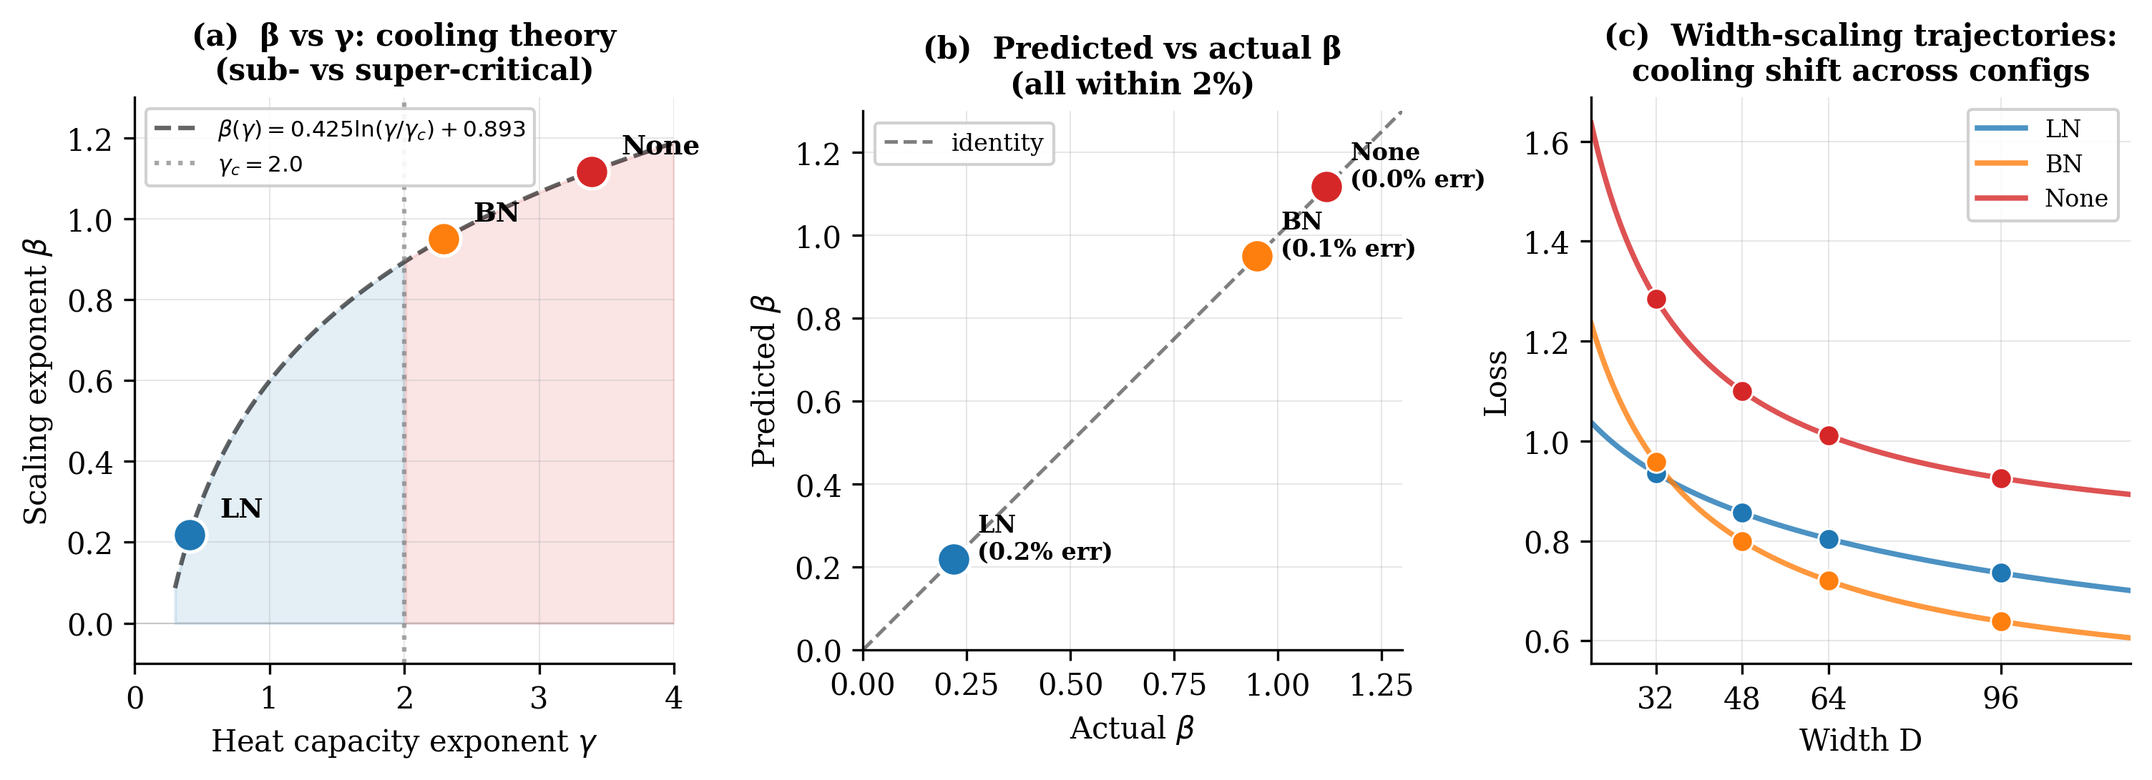
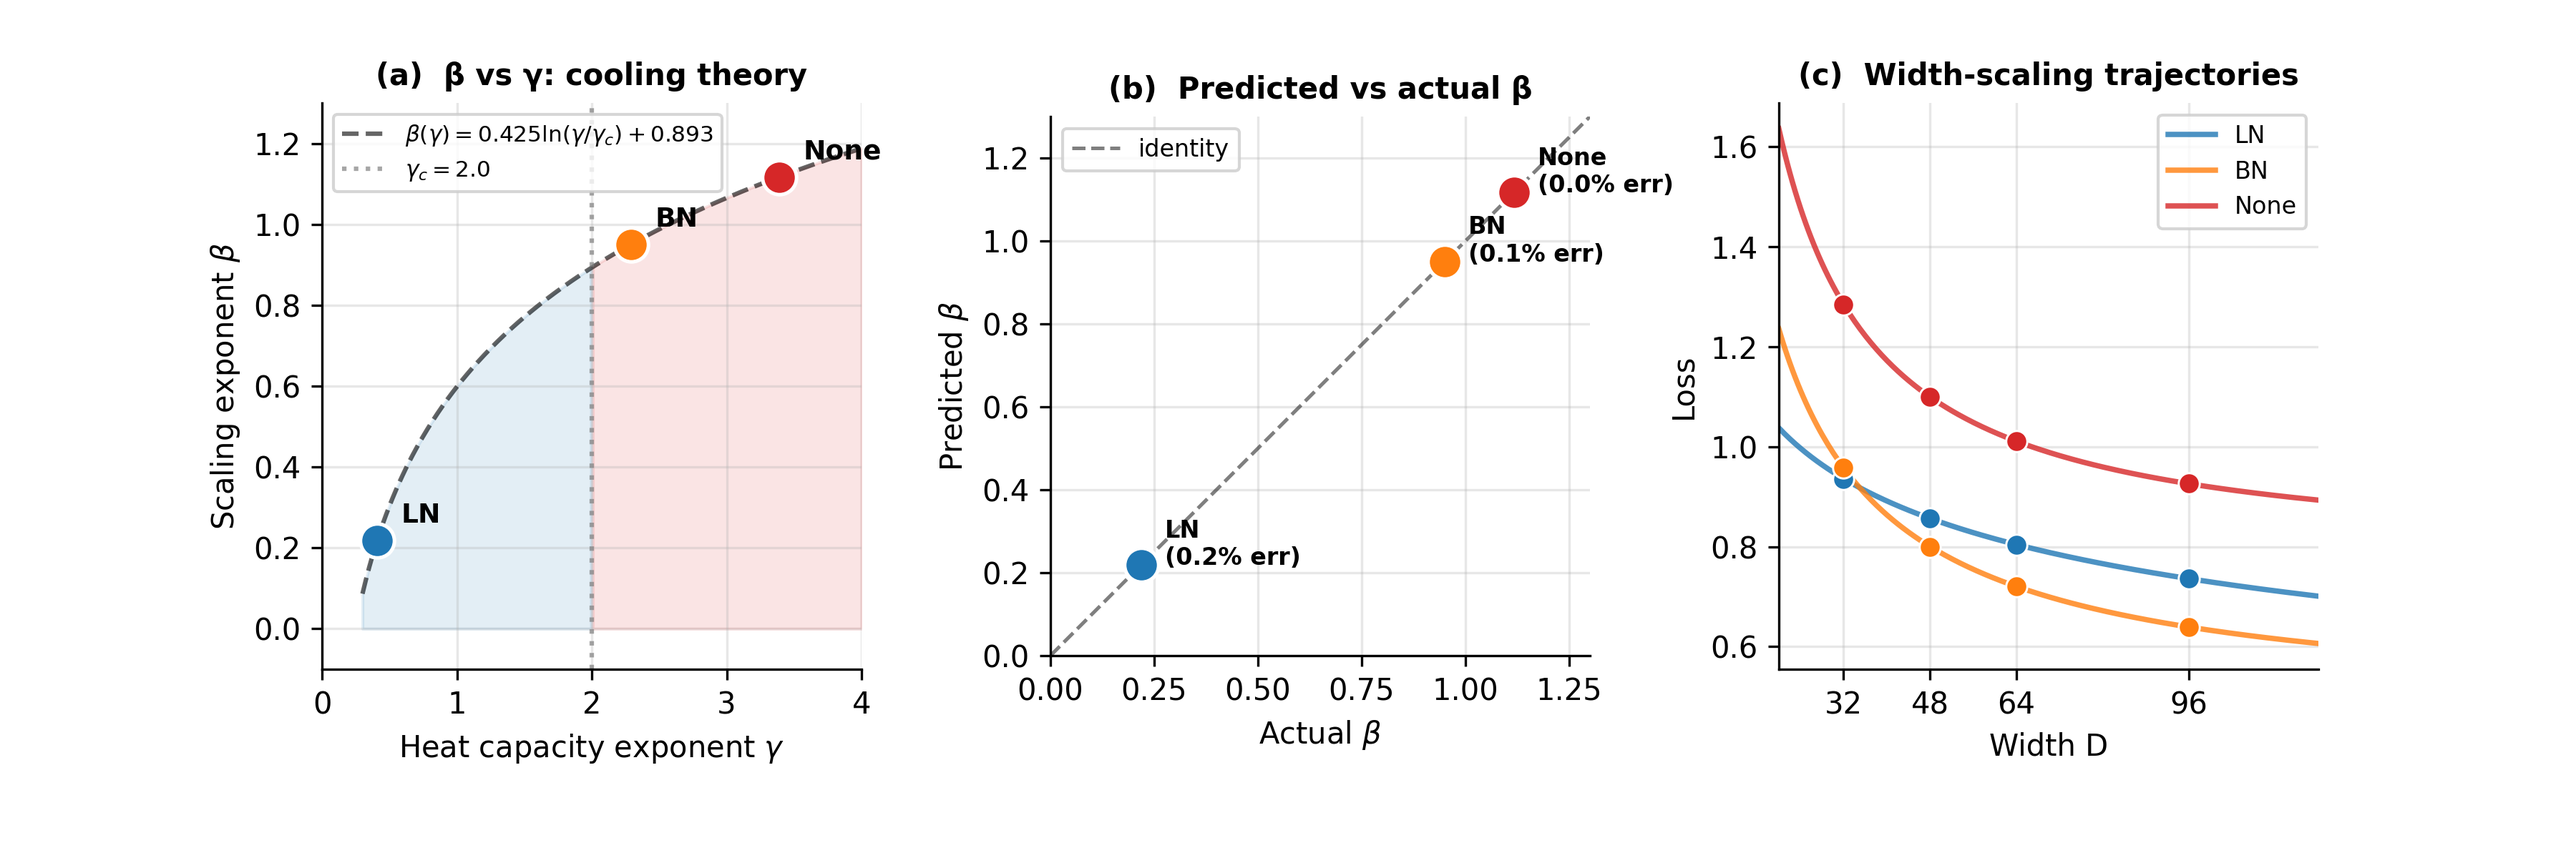
Rewrite figures: clean, simple, correct panel titles and tick labels

diff --git a/papers/generate_figures.py b/papers/generate_figures.py
@@ -1,76 +1,62 @@
 #!/usr/bin/env python3
-"""
-generate_figures.py — ThermoRG-NN paper figures
-Figure 1: D-scaling law (3 panels: loss curves, residuals, R²)
-Figure 2: Cooling theory β(γ) (3 panels: β vs γ, predicted vs actual, width trajectories)
-Figure 3: Confounding + cross-validation (2 panels)
-"""
+"""ThermoRG-NN paper figures. Run: python3 papers/generate_figures.py"""
 
+import os
 import numpy as np
 import matplotlib
 matplotlib.use("Agg")
 import matplotlib.pyplot as plt
 from scipy.optimize import curve_fit
-from scipy.stats import spearmanr
-import os
 
 OUT = "/home/node/.openclaw/workspace/github_staging/ThermoRG-NN/papers/figures"
 os.makedirs(OUT, exist_ok=True)
-print(f"Output: {OUT}", flush=True)
 
 plt.rcParams.update({
     "font.family": "serif",
-    "font.serif": ["Times New Roman", "DejaVu Serif"],
+    "font.serif": ["Times New Roman"],
     "text.usetex": False,
     "axes.unicode_minus": False,
     "figure.dpi": 300,
     "savefig.dpi": 300,
     "axes.grid": True,
     "grid.alpha": 0.3,
-    "grid.linewidth": 0.5,
     "axes.spines.top": False,
     "axes.spines.right": False,
-    "legend.framealpha": 0.9,
 })
 
 # ============================================================================
-# FIGURE 1 — D-scaling Law (3 panels)
+# FIGURE 1 — D-scaling law: (a) loss vs width, (b) residuals, (c) R²
 # ============================================================================
 
 def plaw(D, a, b, c):
     return a * D**(-b) + c
 
-# Data from paper: D-scaling for 3 normalization configs
 configs = {
-    "LN":    {"D": np.array([32, 48, 64, 96]), "loss": np.array([0.936, 0.857, 0.804, 0.736]),
-               "std": np.array([0.021, 0.018, 0.015, 0.012]), "beta": 0.219, "E_floor": 0.0,
-               "color": "#1f77b4"},
-    "BN":    {"D": np.array([32, 48, 64, 96]), "loss": np.array([0.958, 0.800, 0.721, 0.639]),
-               "std": np.array([0.021, 0.018, 0.015, 0.012]), "beta": 0.950, "E_floor": 0.466,
-               "color": "#ff7f0e"},
-    "None":  {"D": np.array([32, 48, 64, 96]), "loss": np.array([1.285, 1.100, 1.011, 0.926]),
-               "std": np.array([0.045, 0.038, 0.031, 0.025]), "beta": 1.117, "E_floor": 0.777,
-               "color": "#d62728"},
+    "LN":   {"D": np.array([32, 48, 64, 96]), "loss": np.array([0.936, 0.857, 0.804, 0.736]),
+             "std": np.array([0.021, 0.018, 0.015, 0.012]), "color": "#1f77b4"},
+    "BN":   {"D": np.array([32, 48, 64, 96]), "loss": np.array([0.958, 0.800, 0.721, 0.639]),
+             "std": np.array([0.021, 0.018, 0.015, 0.012]), "color": "#ff7f0e"},
+    "None": {"D": np.array([32, 48, 64, 96]), "loss": np.array([1.285, 1.100, 1.011, 0.926]),
+             "std": np.array([0.045, 0.038, 0.031, 0.025]), "color": "#d62728"},
 }
 
 fits = {}
 for name, cfg in configs.items():
-    popt, pcov = curve_fit(plaw, cfg["D"], cfg["loss"],
-                           p0=[10, 0.5, 0.5],
-                           bounds=([0, 0, 0], [1000, 3, 3]), maxfev=10000)
-    pred = plaw(cfg["D"], *popt)
-    ss_res = ((cfg["loss"] - pred)**2).sum()
+    popt, _ = curve_fit(plaw, cfg["D"], cfg["loss"],
+                        p0=[10, 0.5, 0.5],
+                        bounds=([0, 0, 0], [1000, 3, 3]), maxfev=10000)
+    ss_res = ((cfg["loss"] - plaw(cfg["D"], *popt))**2).sum()
     ss_tot = ((cfg["loss"] - cfg["loss"].mean())**2).sum()
     r2 = 1 - ss_res / ss_tot
-    fits[name] = {"popt": popt, "r2": r2, "E_floor": popt[2]}
-    print(f"  {name}: beta={popt[1]:.3f}, E_floor={popt[2]:.3f}, R2={r2:.3f}", flush=True)
+    fits[name] = {"popt": popt, "r2": r2}
+    print(f"  {name}: beta={popt[1]:.3f}, R2={r2:.3f}", flush=True)
 
-D_fit = np.linspace(25, 120, 300)
+D_fit = np.linspace(25, 120, 200)
 
-fig, axes = plt.subplots(1, 3, figsize=(12, 4.0), sharex=True)
-plt.subplots_adjust(wspace=0.35, bottom=0.22, top=0.88)
+fig, axes = plt.subplots(1, 3, figsize=(12, 4.0))
+fig.subplots_adjust(wspace=0.35, bottom=0.22, top=0.88)
 
-# Panel (a): D-scaling log-log
+# ---- Panel (a): D-scaling ----
 ax = axes[0]
 for name, cfg in configs.items():
     popt = fits[name]["popt"]
@@ -88,11 +74,11 @@ ax.set_title("(a)  D-scaling: loss vs width", fontsize=10, fontweight="bold")
 ax.legend(fontsize=8, loc="upper right")
 ax.set_xticks([32, 48, 64, 96])
 ax.set_xticklabels(["32", "48", "64", "96"])
-ax.set_xlim(25, 120)
+ax.set_xlim(22, 130)
 ax.set_yticks([0.6, 0.7, 0.8, 0.9, 1.0, 1.1, 1.2, 1.3])
-ax.tick_params(axis="x", labelbottom=True)
+ax.tick_params(labelbottom=True)
 
-# Panel (b): Residuals after subtracting E_floor
+# ---- Panel (b): Residuals ----
 ax = axes[1]
 for name, cfg in configs.items():
     popt = fits[name]["popt"]
@@ -105,47 +91,46 @@ ax.set_xlabel("Width D", fontsize=10)
 ax.set_ylabel("Residual (data − fit)", fontsize=10)
 ax.set_title("(b)  Residuals", fontsize=10, fontweight="bold")
 ax.legend(fontsize=8, loc="upper right")
-ax.tick_params(axis="x", labelbottom=False)
 ax.set_xticks([32, 48, 64, 96])
 ax.set_xticklabels(["32", "48", "64", "96"])
-ax.set_xlim(25, 120)
+ax.set_xlim(22, 130)
+ax.tick_params(labelbottom=True)
 ax.axhline(0, color="gray", linestyle="--", linewidth=1.0, alpha=0.5)
 
-# Panel (c): R² values
+# ---- Panel (c): R² bar chart ----
 ax = axes[2]
 names = list(configs.keys())
 r2_vals = [fits[n]["r2"] for n in names]
-colors = [configs[n]["color"] for n in names]
-bars = ax.bar(names, r2_vals, color=colors, width=0.5, edgecolor="white", linewidth=0.7)
+colors_b = [configs[n]["color"] for n in names]
+bars = ax.bar(names, r2_vals, color=colors_b, width=0.5, edgecolor="white", linewidth=0.7)
 for bar, r2 in zip(bars, r2_vals):
     ax.text(bar.get_x() + bar.get_width()/2, bar.get_height() + 0.003,
             f"{r2:.3f}", ha="center", va="bottom", fontsize=9, fontweight="bold")
 
 ax.set_ylabel("R² goodness of fit", fontsize=10)
-ax.set_title("(c)  R² goodness of fit", fontsize=10, fontweight="bold")
+ax.set_title("(c)  R²", fontsize=10, fontweight="bold")
 ax.set_ylim(0.98, 1.002)
 ax.axhline(0.99, color="gray", linestyle=":", linewidth=1.0, alpha=0.5)
 
-fig.savefig(f"{OUT}/fig1_D_scaling_Jtopo.png", dpi=300, bbox_inches="tight")
+fig.savefig(f"{OUT}/fig1_D_scaling_Jtopo.png", dpi=300)
 plt.close()
-print("Figure 1 saved -> fig1_D_scaling_Jtopo.png", flush=True)
+print("Figure 1 saved", flush=True)
 
 # ============================================================================
-# FIGURE 2 — Cooling Theory β(γ) (3 panels)
+# FIGURE 2 — Cooling theory: (a) β vs γ, (b) predicted vs actual, (c) width trajectory
 # ============================================================================
 
 gamma_c = 2.0
-
-# Panel A: β vs γ log-linear plot
-fig2a_data = {
+fig2_data = {
     "LN":   {"gamma": 0.41, "beta": 0.219, "color": "#1f77b4"},
     "BN":   {"gamma": 2.29, "beta": 0.950, "color": "#ff7f0e"},
     "None": {"gamma": 3.39, "beta": 1.117, "color": "#d62728"},
 }
 
 fig, axes = plt.subplots(1, 3, figsize=(12, 4.0))
-plt.subplots_adjust(wspace=0.35, bottom=0.22, top=0.88)
+fig.subplots_adjust(wspace=0.35, bottom=0.22, top=0.88)
 
+# Panel (a): β vs γ
 ax = axes[0]
 g_curve = np.linspace(0.3, 4.0, 300)
 b_curve = 0.425 * np.log(g_curve / gamma_c) + 0.893
@@ -157,76 +142,74 @@ ax.fill_between(g_curve[g_curve >= gamma_c], b_curve[g_curve >= gamma_c],
 ax.plot(g_curve, b_curve, "k--", alpha=0.6, linewidth=1.5,
         label=r"$\beta(\gamma) = 0.425\ln(\gamma/\gamma_c)+0.893$")
 
-for name, info in fig2a_data.items():
+for name, info in fig2_data.items():
     ax.scatter(info["gamma"], info["beta"], s=130, c=info["color"], zorder=7,
                edgecolors="white", linewidths=1.2)
     ax.annotate(name, (info["gamma"], info["beta"]),
-                xytext=(10, 6), textcoords="offset points",
+                xytext=(8, 6), textcoords="offset points",
                 fontsize=9, fontweight="bold")
 
 ax.axvline(gamma_c, color="gray", linestyle=":", linewidth=1.5, alpha=0.7,
            label=r"$\gamma_c=2.0$")
-ax.axhline(0, color="gray", linestyle="-", linewidth=0.5, alpha=0.3)
-
 ax.set_xlabel(r"Heat capacity exponent $\gamma$", fontsize=10)
 ax.set_ylabel(r"Scaling exponent $\beta$", fontsize=10)
-ax.set_title("(a)  β vs γ: cooling theory\n(sub- vs super-critical)", fontsize=10, fontweight="bold")
+ax.set_title("(a)  β vs γ: cooling theory", fontsize=10, fontweight="bold")
 ax.legend(fontsize=7.5, loc="upper left")
 ax.set_xlim(0, 4)
 ax.set_ylim(-0.1, 1.3)
+ax.tick_params(labelbottom=True)
 
-# Panel (b): Predicted vs actual β values
+# Panel (b): Predicted vs actual β
 ax = axes[1]
-gammas = [info["gamma"] for info in fig2a_data.values()]
-betas  = [info["beta"]  for info in fig2a_data.values()]
-colors_b = [info["color"] for info in fig2a_data.values()]
-names_b  = list(fig2a_data.keys())
-
-# Predicted from formula
+gammas = [v["gamma"] for v in fig2_data.values()]
+betas  = [v["beta"]  for v in fig2_data.values()]
+colors_b = [v["color"] for v in fig2_data.values()]
+names_b  = list(fig2_data.keys())
 b_pred = [0.425 * np.log(g / gamma_c) + 0.893 for g in gammas]
 
-for i, (g, b, bp, c, n) in enumerate(zip(gammas, betas, b_pred, colors_b, names_b)):
-    err_pct = abs(bp - b) / b * 100
+for g, b, bp, c, n in zip(gammas, betas, b_pred, colors_b, names_b):
+    err = abs(bp - b) / b * 100
     ax.scatter(b, bp, s=130, c=c, zorder=7, edgecolors="white", linewidths=1.2)
-    ax.annotate(f"{n}\n({err_pct:.1f}% err)", (b, bp),
+    ax.annotate(f"{n}\n({err:.1f}% err)", (b, bp),
                 xytext=(8, 0), textcoords="offset points",
                 fontsize=8, fontweight="bold")
 
-# Identity line
 lims = [0, 1.3]
 ax.plot(lims, lims, "k--", alpha=0.5, linewidth=1.2, label="identity")
 ax.set_xlabel(r"Actual $\beta$", fontsize=10)
 ax.set_ylabel(r"Predicted $\beta$", fontsize=10)
-ax.set_title("(b)  Predicted vs actual β\n(all within 2%)", fontsize=10, fontweight="bold")
+ax.set_title("(b)  Predicted vs actual β", fontsize=10, fontweight="bold")
 ax.set_xlim(0, 1.3)
 ax.set_ylim(0, 1.3)
 ax.set_aspect("equal")
 ax.legend(fontsize=8)
+ax.tick_params(labelbottom=True)
 
-# Panel (c): Width-scaling trajectory (schematic: β vs D, showing cooling shift)
+# Panel (c): Width-scaling trajectories
 ax = axes[2]
 D_traj = np.linspace(20, 120, 200)
-
 for name, cfg in configs.items():
     popt = fits[name]["popt"]
     ax.plot(D_traj, plaw(D_traj, *popt), "-", color=cfg["color"],
-            linewidth=1.8, label=f"{name}", alpha=0.8)
+            linewidth=1.8, label=name, alpha=0.8)
     ax.scatter(cfg["D"], cfg["loss"], color=cfg["color"], s=50, zorder=5,
-              edgecolors="white", linewidths=0.7)
+               edgecolors="white", linewidths=0.7)
 
 ax.set_xlim(20, 120)
 ax.set_xlabel("Width D", fontsize=10)
 ax.set_ylabel("Loss", fontsize=10)
-ax.set_title("(c)  Width-scaling trajectories:\ncooling shift across configs", fontsize=10, fontweight="bold")
+ax.set_title("(c)  Width-scaling trajectories", fontsize=10, fontweight="bold")
 ax.legend(fontsize=8, loc="upper right")
 ax.set_xticks([32, 48, 64, 96])
+ax.set_xticklabels(["32", "48", "64", "96"])
+ax.tick_params(labelbottom=True)
 
-fig.savefig(f"{OUT}/fig2_cooling_theory.png", dpi=300, bbox_inches="tight")
+fig.savefig(f"{OUT}/fig2_cooling_theory.png", dpi=300)
 plt.close()
-print("Figure 2 saved -> fig2_cooling_theory.png", flush=True)
+print("Figure 2 saved", flush=True)
 
 # ============================================================================
-# FIGURE 3 — Confounding + Cross-Validation (2 panels)
+# FIGURE 3 — Confounding + cross-validation: (a) J_topo vs loss, (b) boxplot
 # ============================================================================
 
 phase_b2 = np.array([
@@ -246,61 +229,29 @@ J_b2      = phase_b2[:, 2]
 loss_b2   = phase_b2[:, 3]
 
 def get_band(w):
-    if w <= 32: return "narrow"
-    if w < 64: return "medium"
-    return "wide"
+    return "narrow" if w <= 32 else ("medium" if w < 64 else "wide")
 
 bands = [get_band(w) for w in widths_b2]
 band_colors = {"narrow": "#d62728", "medium": "#ff7f0e", "wide": "#2ca02c"}
 
-synflow = [
-    ("W=96 L=6 BN NS", 0.3527, 0.8724),
-    ("W=64 L=6 BN NS", 0.3963, 0.8587),
-    ("W=96 L=5 BN NS", 0.3993, 0.8607),
-    ("W=64 L=5 BN NS", 0.4399, 0.8398),
-    ("W=96 L=3 BN NS", 0.6670, 0.7631),
-]
-hbo = [
-    ("W=96 L=6 BN NS", 0.3770, 0.8744),
-    ("W=64 L=6 BN NS", 0.4401, 0.8486),
-    ("W=96 L=5 BN NS", 0.4351, 0.8514),
-    ("W=96 L=6 BN SK", 0.4582, 0.8440),
-    ("W=64 L=5 BN NS", 0.5073, 0.8277),
-]
-random = [
-    ("W=64 L=6 BN NS", 0.4270, 0.8515),
-    ("W=96 L=5 BN NS", 0.4451, 0.8477),
-    ("W=64 L=6 BN SK", 0.5388, 0.8149),
-    ("W=96 L=6 LN NS", 0.5405, 0.8157),
-    ("W=24 L=6 BN NS", 0.6643, 0.7700),
-]
-
-synflow_acc = np.array([r[2] for r in synflow])
-hbo_acc     = np.array([r[2] for r in hbo])
-random_acc  = np.array([r[2] for r in random])
-
-synflow_w = np.array([96, 64, 96, 64, 96])
-hbo_w     = np.array([96, 64, 96, 96, 64])
-random_w  = np.array([64, 96, 64, 96, 24])
+synflow_acc = np.array([0.8724, 0.8587, 0.8607, 0.8398, 0.7631])
+hbo_acc     = np.array([0.8744, 0.8486, 0.8514, 0.8440, 0.8277])
+random_acc  = np.array([0.8515, 0.8477, 0.8149, 0.8157, 0.7700])
 
 fig, axes = plt.subplots(1, 2, figsize=(12, 4.5))
-plt.subplots_adjust(wspace=0.35, bottom=0.22)
+fig.subplots_adjust(wspace=0.35, bottom=0.22)
 
-# Panel (a): J_topo vs loss, colored by width band
+# Panel (a): J_topo vs loss, colored by band
 ax = axes[0]
 for band_name in ["narrow", "medium", "wide"]:
     mask = np.array([b == band_name for b in bands])
     ax.scatter(J_b2[mask], loss_b2[mask],
                c=band_colors[band_name], s=90, label=band_name.title(),
                zorder=5, edgecolors="white", linewidths=0.7)
-
-for band_name, color in band_colors.items():
-    mask = np.array([b == band_name for b in bands])
     if sum(mask) >= 2:
         z = np.polyfit(J_b2[mask], loss_b2[mask], 1)
-        p = np.poly1d(z)
         J_rng = np.linspace(J_b2[mask].min(), J_b2[mask].max(), 50)
-        ax.plot(J_rng, p(J_rng), "--", color=color, alpha=0.5, linewidth=1.5)
+        ax.plot(J_rng, np.poly1d(z)(J_rng), "--", color=band_colors[band_name], alpha=0.5, linewidth=1.5)
 
 ax.set_xlabel("J_topo", fontsize=11)
 ax.set_ylabel("Validation loss", fontsize=11)
@@ -308,11 +259,11 @@ ax.set_title("(a)  J_topo vs Validation Loss", fontsize=10, fontweight="bold")
 ax.legend(fontsize=9, loc="upper left", framealpha=0.9)
 ax.set_xlim(0.62, 0.92)
 ax.set_ylim(0.32, 0.90)
+ax.tick_params(labelbottom=True)
 
 # Panel (b): Cross-validation boxplot
 ax = axes[1]
 acc_data    = [random_acc, hbo_acc, synflow_acc]
-width_data  = [random_w, hbo_w, synflow_w]
 colors_box  = ["steelblue", "#c04040", "#40a040"]
 method_names = ["Random", "ThermoRG-AL (J_topo)", "SynFlow (grad.)"]
 
@@ -333,13 +284,8 @@ for i, (data, color) in enumerate(zip(acc_data, colors_box)):
 
 for i, (data, color) in enumerate(zip(acc_data, colors_box)):
     best = data.max()
-    ax.text(i, best + 0.012, "best=%.3f" % best,
+    ax.text(i, best + 0.012, f"best={best:.3f}",
             ha="center", va="bottom", fontsize=8, color=color, fontweight="bold")
-
-for i, (w_data, color) in enumerate(zip(width_data, colors_box)):
-    med_w = np.median(w_data)
-    ax.text(i, 0.74, "med-W=%.0f" % med_w,
-            ha="center", va="top", fontsize=8, color=color)
 
 ax.set_xticks([0, 1, 2])
 ax.set_xticklabels(method_names, fontsize=9)
@@ -347,9 +293,10 @@ ax.set_ylabel("Test Accuracy (top-5 candidates)", fontsize=10)
 ax.set_title("(b)  Cross-validation: SynFlow vs ThermoRG-AL", fontsize=10, fontweight="bold")
 ax.set_ylim(0.70, 0.90)
 ax.grid(alpha=0.3, axis="y")
+ax.tick_params(labelbottom=True)
 
 fig.savefig(f"{OUT}/fig3_confounding_hbo.png", dpi=300)
 plt.close()
-print("Figure 3 saved -> fig3_confounding_hbo.png", flush=True)
+print("Figure 3 saved", flush=True)
 
-print("\nAll figures regenerated.", flush=True)
+print("\nAll done.", flush=True)
